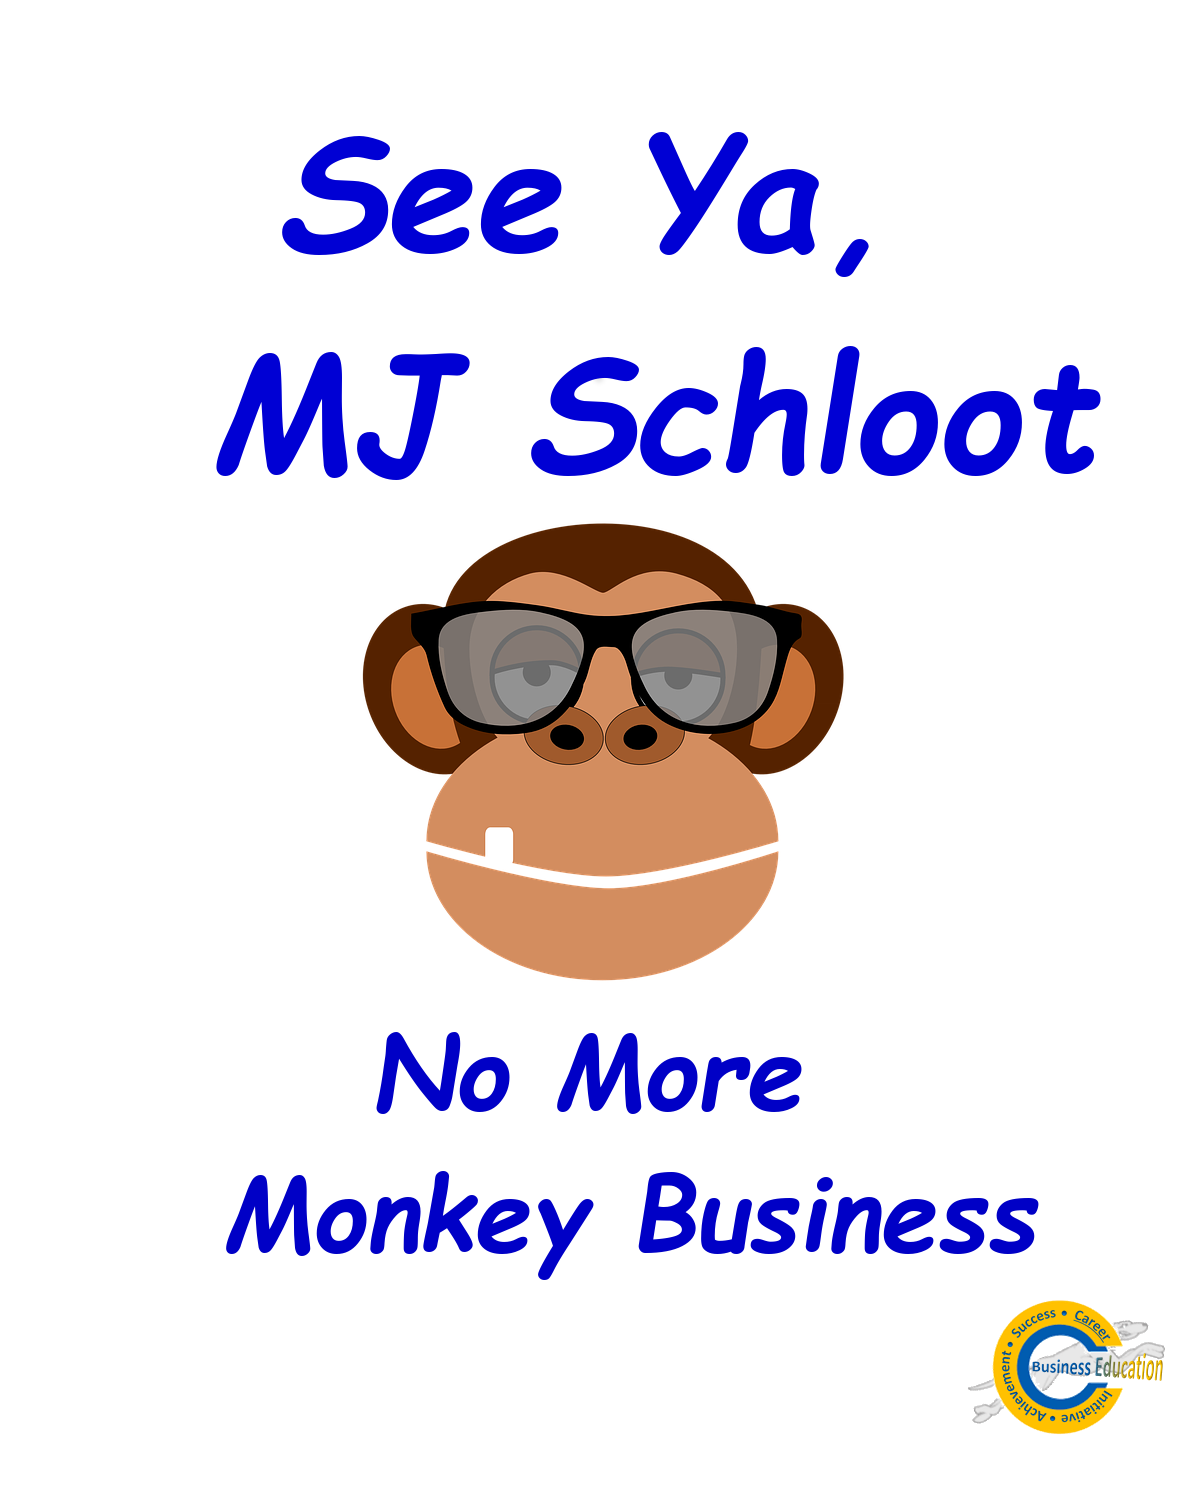
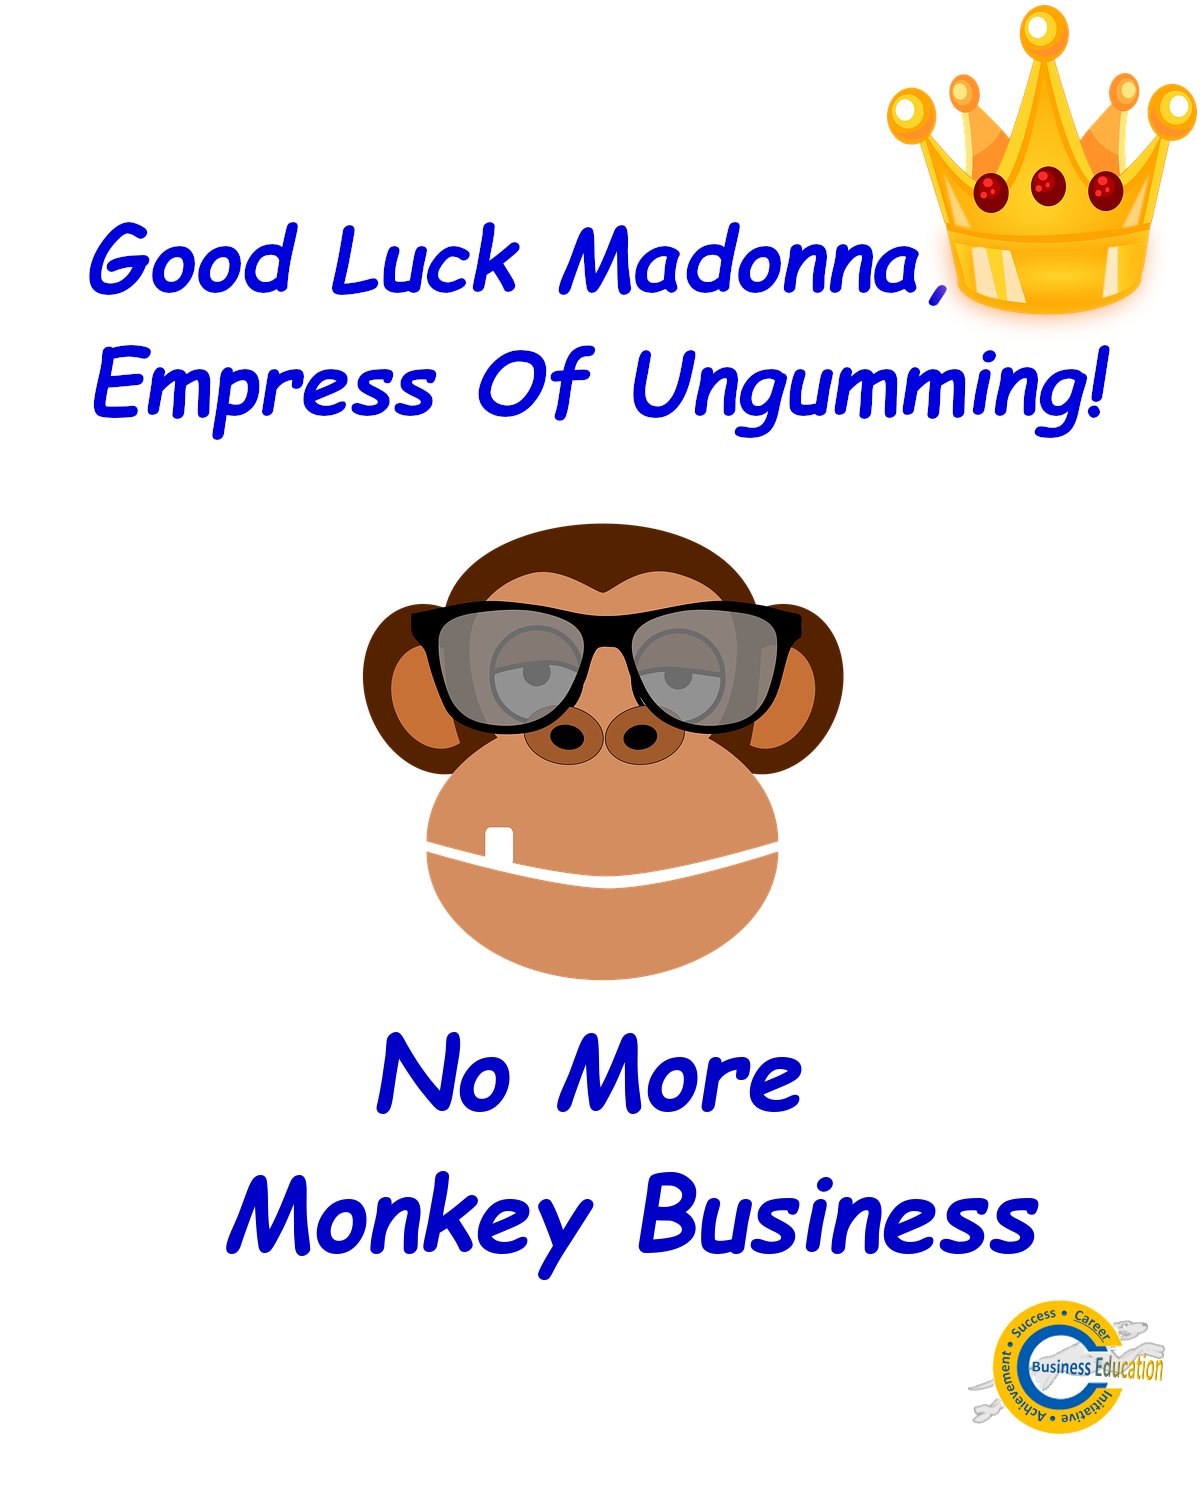
Add files via upload

Changed region(s): [[0.0617, 0.0, 1.0, 0.3373]]

diff --git a/index.html b/index.html
@@ -312,14 +312,14 @@
 
 
                 <div>
-                    <p class="cardbody notelets">She always give us a warm smile and welcome - even when it’s Friday with unfilled sub positions. When I call in a panic and have to go pick up my sick kid, she tells me she’s got it covered! She’s the best!<br> Stacie Fowler
+                    <p class="cardbody notelets">Thanks for always answering my calls! Have a drink for me!<br> Stacie Fowler
                     </p>
                 </div>
 
                 <p></p>
                 <div>
                     <p class="cardbody notelets">
-                        MJ’s magic when it came to filling all of our open sub positions!<br> Nancy Spencer
+                        Have a great time! We will miss you!<br> Nancy Spencer
                     </p>
                 </div>
                 <div>
@@ -328,6 +328,12 @@
                         Madonna – I think you are great and your expertise will be missed!<br> Bob Browning
                     </p>
                 </div>
+                <div>
+                    <p class="cardbody notelets">
+                        while (true) { <br>me.message("Have fun in the sun!");<br>}.<br> Jacqui Kane
+                    </p>
+                </div>
+
             </div>
 
 
@@ -376,36 +382,32 @@
 
             <div class="col sm-4 floatright">
 
-                <div>
-                    <p class="cardbody notelets">
-                        No-one to help me with the fax machine anymore! I'll miss MJ's smile, no matter what was going on, and her reassurances that everything is going to be allright.<br> Jacqui Kane
-                    </p>
-                </div>
-
+             
                 <p></p>
 
                 <div>
                     <p class="cardbody notelets">
-                        MJ is awesome!! <br> Rob Holman
+                        Madonna, you're the greatest ever!! <br> Rob Holman
                     </p>
                 </div>
                 <p></p>
                 <div>
                     <p class="cardbody notelets">
-                        Best of luck in all your future endeavors!! I'll remember your smiling face! <br> Laura Cardamon
+                        Thanks for all your help over the years with computers! 
+                        Have an amazing retirement! <br> Laura Cardamon
                     </p>
                 </div>
                 <p></p>
                 <div>
                     <p class="cardbody notelets">
-                        MJ, thanks for getting us all the subs!! <br> John Albers
+                        Enjoy your returement!! <br> John Albers
                     </p>
                 </div>
 
                 <p></p>
                 <div>
                     <p class="cardbody notelets">
-                        Good luck MJ!! <br> Cary Anderson
+                        Good luck Madonna!! <br> Cary Anderson
                     </p>
                 </div>
                 <div>
@@ -415,7 +417,7 @@
                 <p></p>
                 <div>
                     <p class="cardbody notelets">
-                        MJ, I will remember your calm readiness to help, and your super-power, getting subs!!! <br> Debbie Lesjak
+                        Enjoy the beach Madonna!!! <br> Debbie Lesjak
                     </p>
                 </div>
 
@@ -423,7 +425,8 @@
                 <p></p>
                 <div>
                     <p class="cardbody notelets">
-                        MJ's first word is a smile!! Good luck, we will miss you, come back and see us! <br> Paul Clayton
+                        Good luck, we will miss you, 
+                        come back and see us! <br> Paul Clayton
                     </p>
                 </div>
 
@@ -458,7 +461,7 @@
                         <p>We can't believe you're leaving but you know </p>
                         <p> it's good business to stay in touch!</p>
                         <p>Sincere thanks for your super tech powers </p>
-                        <p>friendly smiley force</p><br>
+                        <p>and friendly smiley face!</p><br>
                         <p>We all love you and will really miss you!</p>
                         <p>The Business Dept - </p>
                         <p>Nancy Spencer, Stacie Fowler, Cary Anderson, </p>
